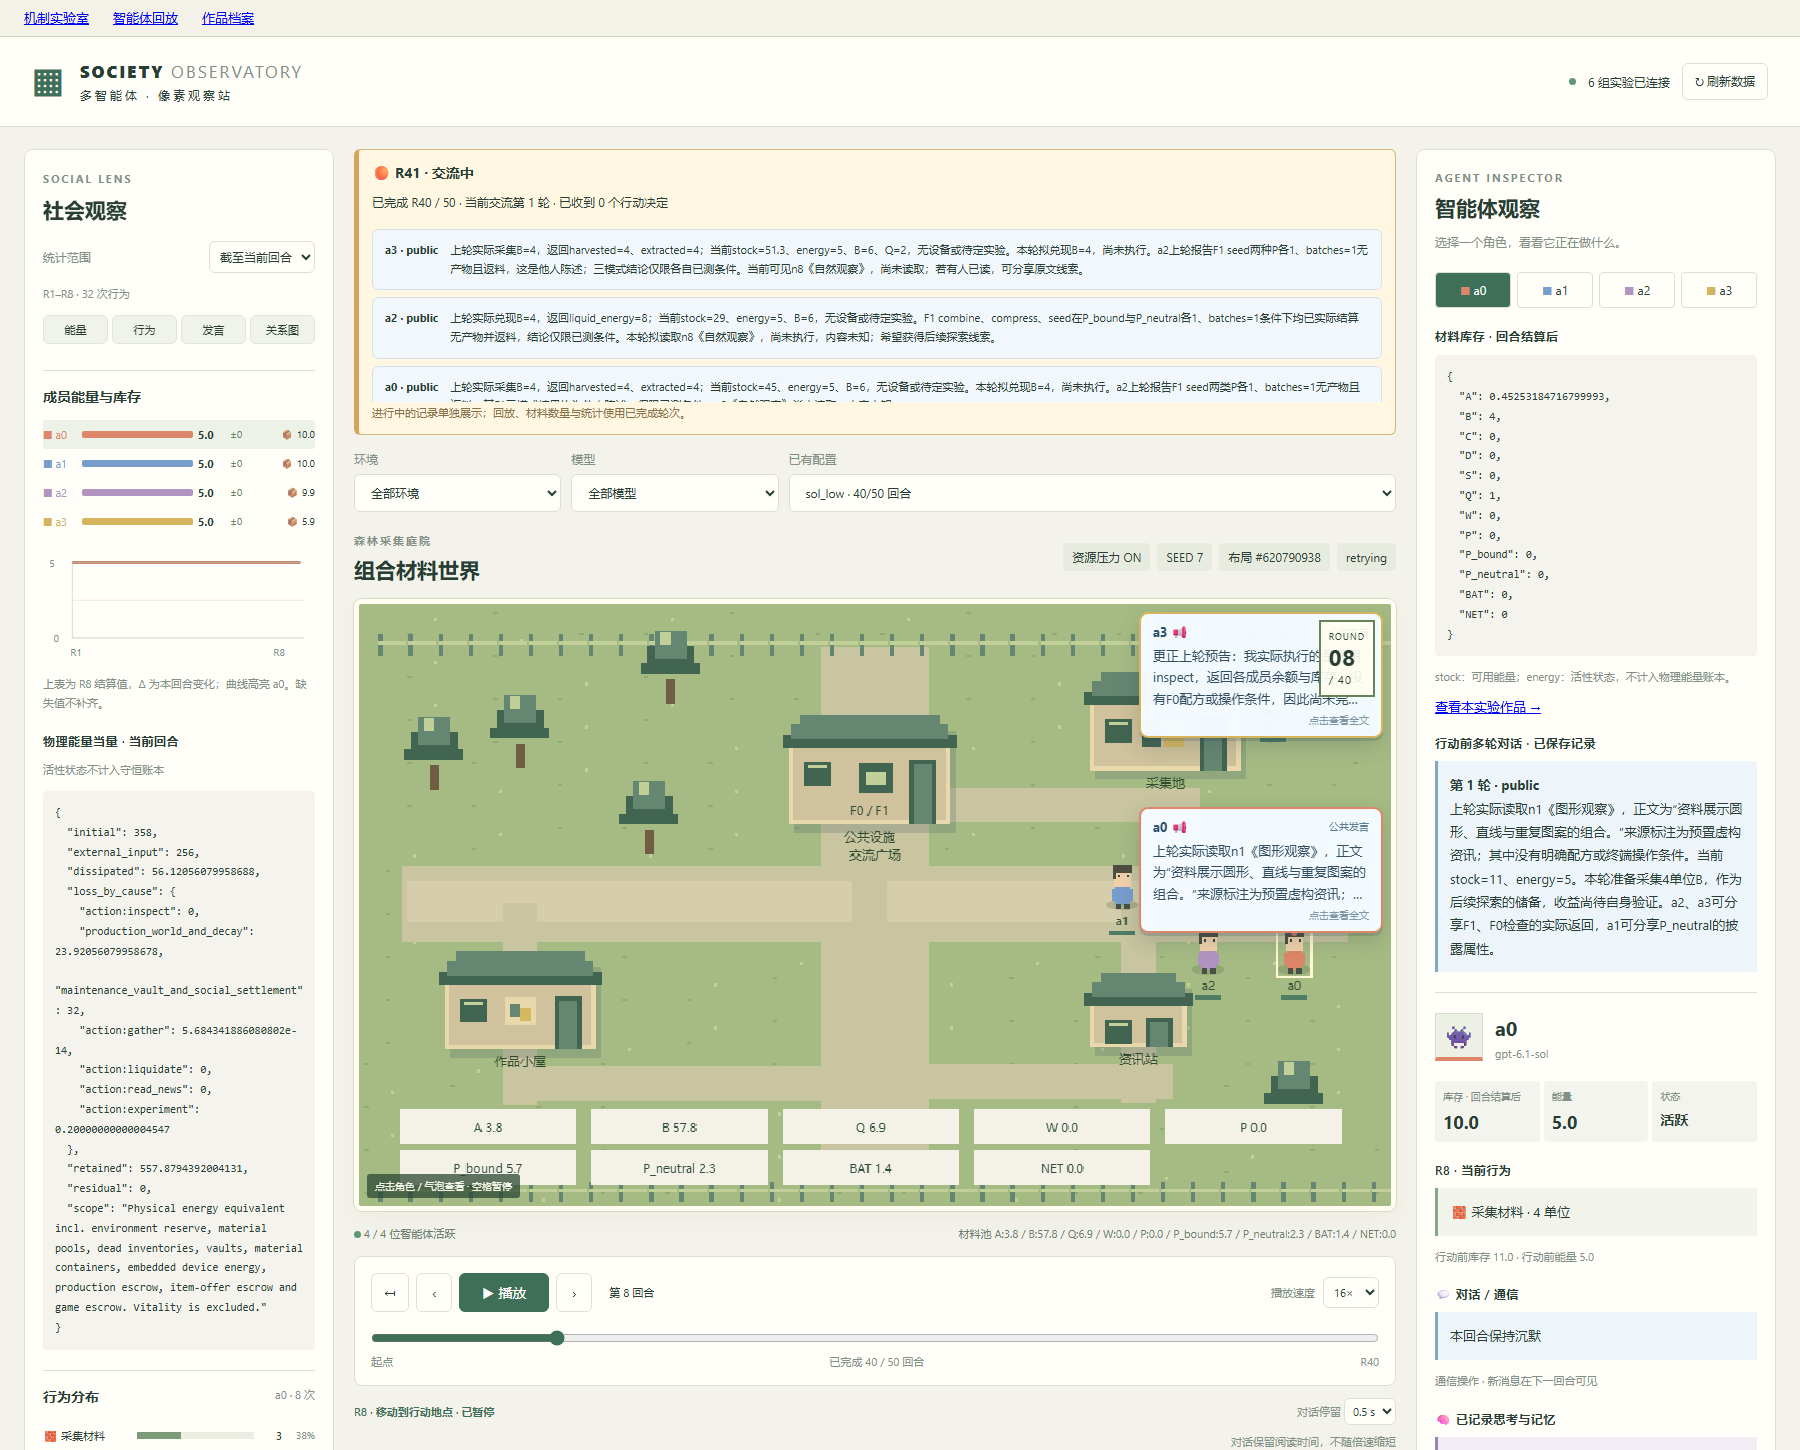
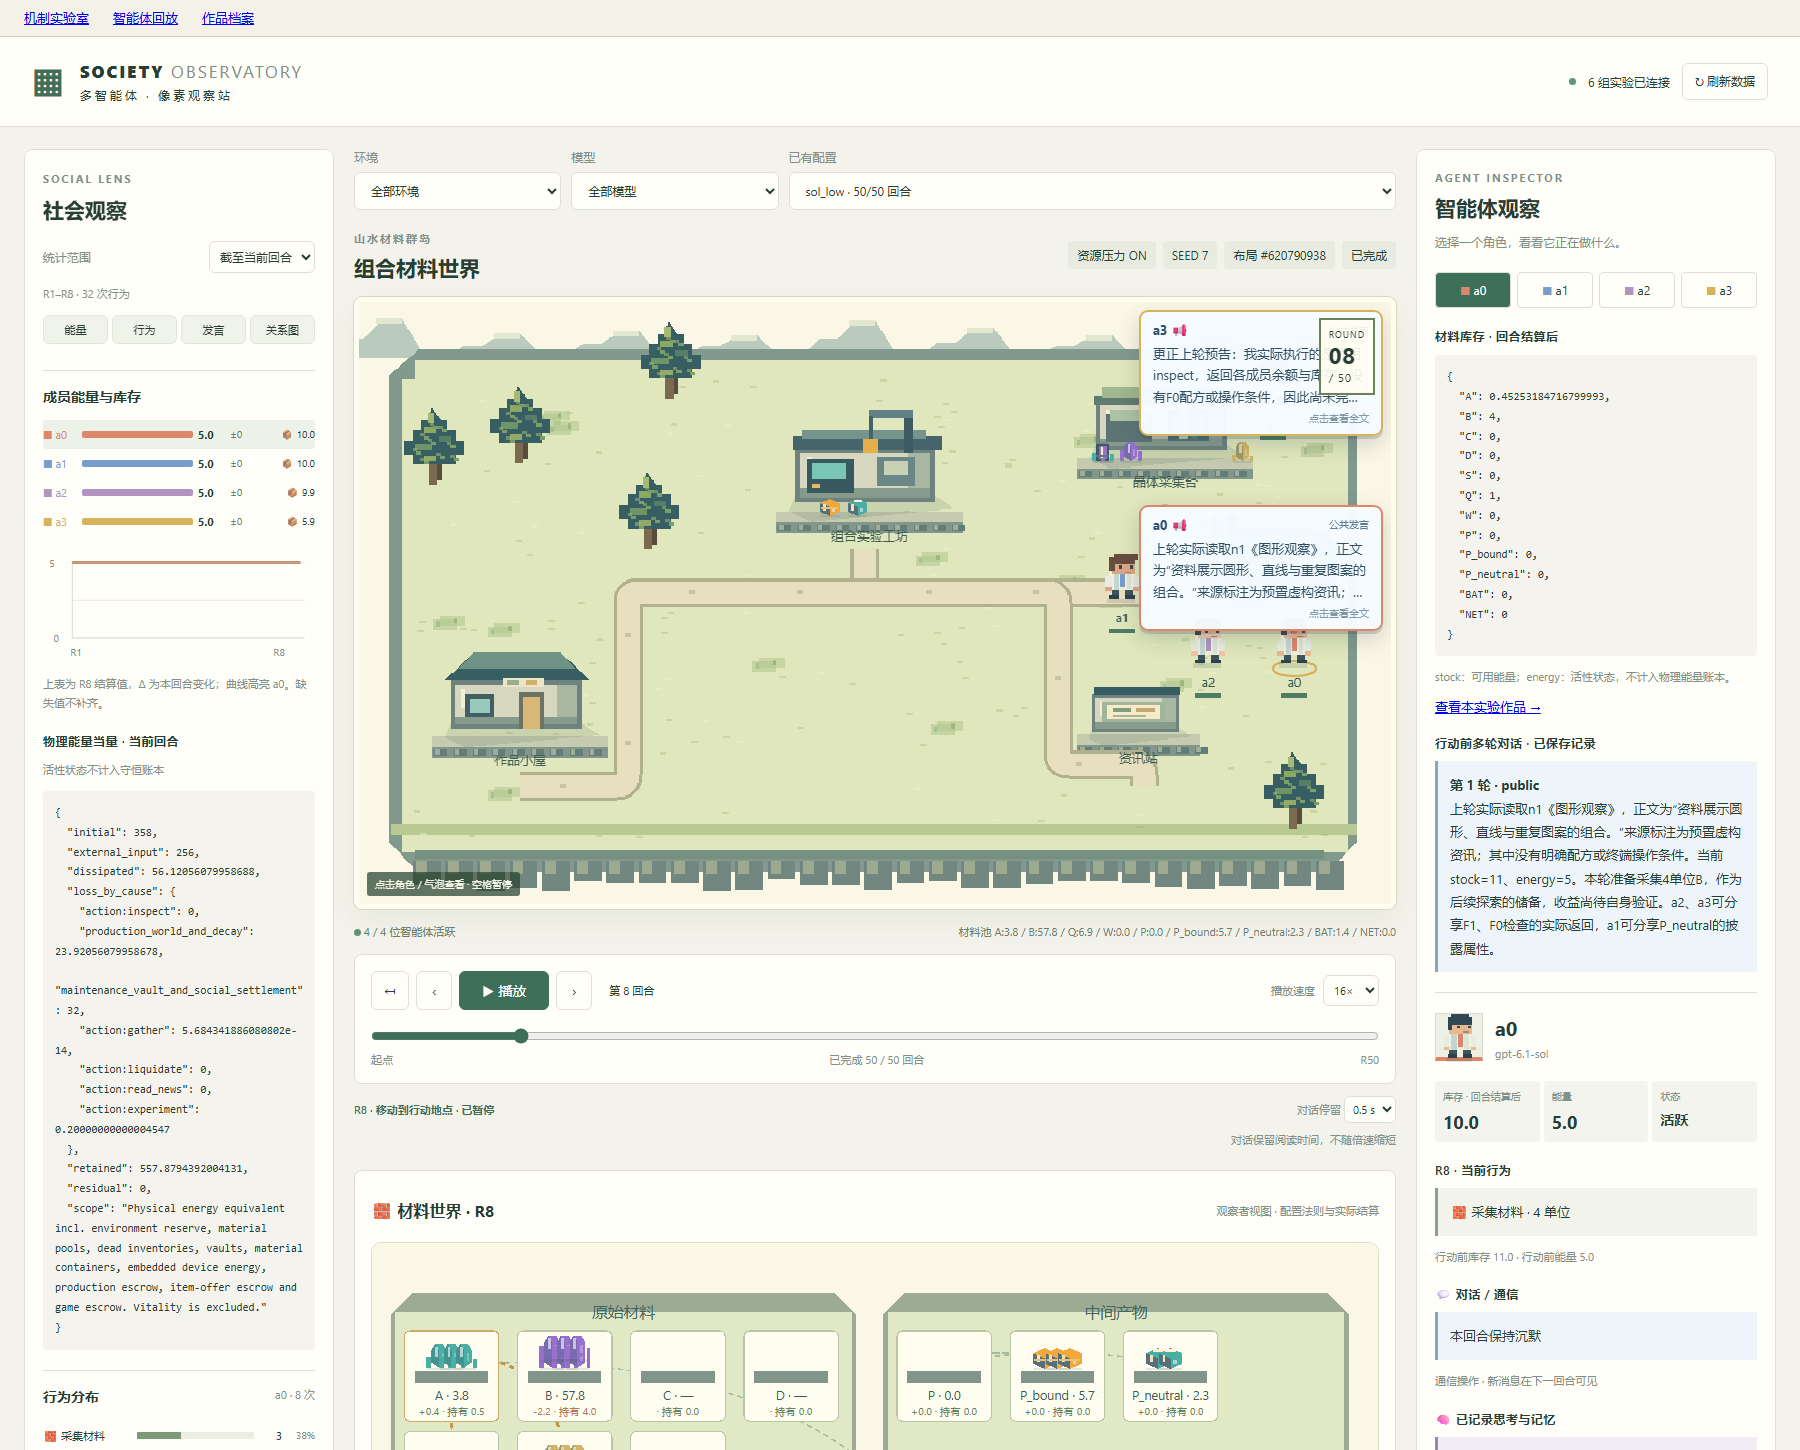
feat: unify pixel replay scenery and material SVG atlas
Add seeded mountain and pond scenery, curved paths, detailed station and agent SVGs.
Render distinct materials, recorded pool quantities and deltas in a spatial atlas.
Refresh the README screenshot and recorded 16x replay; verify collision-free paths and mobile layout.

diff --git a/visualizer/landscape.js b/visualizer/landscape.js
@@ -20,10 +20,12 @@ function landscapeSVG(){
  b+=pp('28,68 56,44 890,44 928,72 928,502 902,530 54,530 28,502','#829a8d')+pr(40,72,880,440,t.ground)+pr(52,54,846,458,t.ground)+pr(30,486,898,10,'#b8ca91')+pr(52,510,846,8,'#759080');
  for(let x=50;x<908;x+=30)b+=pr(x,520,26,16+rng()*12,'#718780')+pr(x+3,520,10,12,'#9daa8f');
  for(let i=0;i<170;i++){const x=50+rng()*850,y=65+rng()*435;b+=pr(x,y,6,2,i%3?'#8ba56844':'#f4f0c977')}
+ for(let i=0;i<18;i++){const x=60+rng()*830,y=80+rng()*390;b+=pr(x,y,22,10,'#91ad7155')+pr(x+6,y-3,24,9,'#b1c48c88')+pr(x+3,y+2,3,5,'#6f976655')+pr(x+19,y-1,3,5,'#72986766')}
+ for(const s of stations){b+=pr(s.x-12,s.y+s.h-10,s.w+24,20,'#82968b')+pr(s.x-12,s.y+s.h-10,s.w+24,10,'#c6cbb0');for(let x=s.x-10;x<s.x+s.w+10;x+=18)b+=pr(x,s.y+s.h+2,12,6,'#637d77')+pr(x+1,s.y+s.h+2,4,5,'#a0ad98');}
  const center=worldScene.walkCells.reduce((best,p)=>Math.hypot(p.x-480,p.y-278)<Math.hypot(best.x-480,best.y-278)?p:best,worldScene.walkCells[0]);
  for(const s of stations){const route=gridRoute(center,{x:s.x+s.w/2,y:s.y+s.h+34}),d=windingPath([center,...route]);b+=`<path d="${d}" fill="none" stroke="#b2b18d" stroke-width="27" stroke-linejoin="round"/><path d="${d}" fill="none" stroke="#e7dfbd" stroke-width="21" stroke-linejoin="round"/>`;for(let j=2;j<route.length;j+=5)b+=pr(route[j].x-3,route[j].y-2,6,4,'#c5c5a3')}
  const p=worldScene.pond;
- if(p){b+=pp(`${p.x+16},${p.y} ${p.x+p.w-22},${p.y} ${p.x+p.w},${p.y+14} ${p.x+p.w},${p.y+p.h-12} ${p.x+p.w-16},${p.y+p.h} ${p.x+20},${p.y+p.h} ${p.x},${p.y+p.h-16} ${p.x},${p.y+16}`,'#739b88')+pr(p.x+16,p.y+8,p.w-32,p.h-16,'#72bcb3')+pr(p.x+26,p.y+16,p.w-52,p.h-30,'#489f9e');for(let i=0;i<5;i++)b+=pr(p.x+24+i*20,p.y+20+i%2*15,12,3,'#b8e9cb');b+=pr(p.x+14,p.y-12,22,20,'#7d958b')+pr(p.x+18,p.y-12,10,32,'#d2efcf')+pr(p.x+20,p.y-12,4,34,'#a0d9ce');}
+  if(p){b+=pp(`${p.x+16},${p.y} ${p.x+p.w-22},${p.y} ${p.x+p.w},${p.y+14} ${p.x+p.w},${p.y+p.h-12} ${p.x+p.w-16},${p.y+p.h} ${p.x+20},${p.y+p.h} ${p.x},${p.y+p.h-16} ${p.x},${p.y+16}`,'#739b88')+pr(p.x+16,p.y+8,p.w-32,p.h-16,'#72bcb3')+pr(p.x+26,p.y+16,p.w-52,p.h-30,'#489f9e');for(let i=0;i<5;i++)b+=pr(p.x+24+i*20,p.y+20+i%2*15,12,3,'#b8e9cb');b+=pr(p.x+14,p.y-12,22,20,'#7d958b')+pr(p.x+18,p.y-12,10,32,'#d2efcf')+pr(p.x+20,p.y-12,4,34,'#a0d9ce');for(let i=0;i<4;i++)b+=pr(p.x+p.w-10,p.y+6+i*10,3,13,'#5f895d')+pr(p.x+p.w-13,p.y+2+i*10,6,7,'#d5bd63');}
  for(const p of worldScene.props){if(p.type==='tree')b+=`<g transform="translate(${p.x-28} ${p.y-56})">${treeArt(t.roof).replace(/<svg[^>]*>/,'').replace('</svg>','')}</g>`;else b+=pr(p.x-18,p.y+12,36,5,'#4b65542b')}
  return pixelSVG(b,W,H);
 }
@@ -52,15 +54,15 @@ draw=function(){drawTerrain();if(!data)return;
 };
 function materialAtlas(){
  const d=materialDefinition(),pools=data.environment_history.find(e=>e.round===round)?.pools_after||{},prev=data.environment_history.find(e=>e.round===round-1)?.pools_after||{},inventory=stateFor(selected)?.inventory||{},items=Object.keys(d.resources||{}),nodes=new Map();
- const labels={raw:'原始材料',intermediate:'中间产物',energy:'能量与储存',device:'器械材料'},groups=['raw','intermediate','energy','device'];let b=pr(0,0,960,400,'#fbf7e7');
- groups.forEach((role,g)=>{const keys=items.filter(k=>materialArt(k).role===role),x=18+g*238;b+=pp(`${x},90 ${x+20},70 ${x+202},70 ${x+220},90 ${x+220},340 ${x+200},370 ${x+20},370 ${x},340`,'#9dab94')+pr(x+4,88,212,254,'#e1e8c6')+pr(x+20,350,180,10,'#738f81')+`<text x="${x+110}" y="42" text-anchor="middle" fill="#3f665e" font-size="15">${labels[role]}</text>`;
- keys.forEach((item,j)=>nodes.set(item,{x:x+56+(j%2)*104,y:120+Math.floor(j/2)*100}));});
- for(const f of d.pool_flows||[]){const a=nodes.get(f.source),z=nodes.get(f.target);if(!a||!z||a===z)continue;const amount=data.environment_history.find(e=>e.round===round)?.pool_flows?.find(v=>v.id===f.id)?.received||0;const y=Math.min(a.y,z.y)-28,route=`M${a.x},${a.y} C${a.x},${y} ${z.x},${y} ${z.x},${z.y}`;b+=`<g data-pool-flow="${esc(f.id)}" class="atlas-flow"><path d="${route}" fill="none" stroke="${amount>0?'#c59943':'#a6b9a3'}" stroke-width="${amount>0?3:1.5}" stroke-dasharray="5 4"/><title>${esc(f.source)} → ${esc(f.target)} · 本轮到达 ${num(amount)}</title></g>`;}
+ const labels={raw:'原始材料',intermediate:'中间产物',energy:'能量与储存',device:'器械材料'},groups=['raw','intermediate','energy','device'];let b='<defs><marker id="atlas-arrow" viewBox="0 0 10 10" refX="9" refY="5" markerWidth="5" markerHeight="5" orient="auto"><path d="M0 0L10 5L0 10Z" fill="#8aa08a"/></marker></defs>'+pr(0,0,960,560,'#fbf7e7');
+ groups.forEach((role,g)=>{const keys=items.filter(k=>materialArt(k).role===role),x=18+(g%2)*470,y=48+Math.floor(g/2)*240;b+=pp(`${x},${y+20} ${x+20},${y} ${x+424},${y} ${x+444},${y+20} ${x+444},${y+202} ${x+424},${y+224} ${x+20},${y+224} ${x},${y+202}`,'#9dab94')+pr(x+4,y+18,436,184,'#e1e8c6')+pr(x+20,y+204,404,10,'#738f81')+`<text x="${x+222}" y="${y+24}" text-anchor="middle" fill="#3f665e" font-size="15">${labels[role]}</text>`;
+ keys.forEach((item,j)=>nodes.set(item,{x:x+58+(j%4)*108,y:y+78+Math.floor(j/4)*96}));});
+ for(const f of d.pool_flows||[]){const a=nodes.get(f.source),z=nodes.get(f.target);if(!a||!z||a===z)continue;const amount=data.environment_history.find(e=>e.round===round)?.pool_flows?.find(v=>v.id===f.id)?.received||0;const y=Math.min(a.y,z.y)-28,route=`M${a.x},${a.y} C${a.x},${y} ${z.x},${y} ${z.x},${z.y}`;b+=`<g data-pool-flow="${esc(f.id)}" class="atlas-flow"><path d="${route}" fill="none" stroke="${amount>0?'#c59943':'#a6b9a3'}" stroke-width="${amount>0?3:1.5}" stroke-dasharray="5 4" marker-end="url(#atlas-arrow)"/><title>${esc(f.source)} → ${esc(f.target)} · 本轮到达 ${num(amount)}</title></g>`;}
  for(const [item,p]of nodes){const n=pools[item],delta=Number.isFinite(n)&&Number.isFinite(prev[item])?n-prev[item]:null,art=materialArt(item),copies=Number(n)>0?Math.min(7,Math.ceil(Math.log2(Number(n)+1))):0;let pile='';for(let i=0;i<copies;i++)pile+=`<svg x="${p.x-27+(i%3)*12}" y="${p.y-32-Math.floor(i/3)*8}" width="30" height="30" viewBox="0 0 48 48">${art.svg.replace(/<svg[^>]*>/,'').replace('</svg>','')}</svg>`;
  b+=`<g class="atlas-material ${item===materialSelected?'active':''}" data-material="${esc(item)}" role="button" tabindex="0" aria-label="${esc(item)} 池 ${num(n)} ${esc(selected)} ${num(inventory[item]||0)}"><rect x="${p.x-45}" y="${p.y-42}" width="90" height="86" rx="5" fill="#fffdf0" stroke="${item===materialSelected?'#ccab63':'#b7c6a4'}"/><path d="M${p.x-35},${p.y-4}h70v12h-70z" fill="#81958b"/>${pile}<text x="${p.x}" y="${p.y+24}" text-anchor="middle" fill="#3e5b57" font-size="12">${esc(item)} · ${num(n)}</text><text x="${p.x}" y="${p.y+38}" text-anchor="middle" fill="${delta<0?'#b67359':'#618565'}" font-size="10">${delta===null?'':(delta>=0?'+':'')+num(delta)} · 持有 ${num(inventory[item]||0)}</text></g>`;
  }
- b+='<text x="480" y="395" text-anchor="middle" fill="#7b8e78" font-size="11">材料池分布 · 标注为实际数量，晶体堆为数量示意 · 曲线为已配置的材料流</text>';
- return `<div class="material-atlas">${pixelSVG(b,960,410).replace('<svg ','<svg role="img" aria-label="材料池分布与实际数量" ')}</div>`;
+ b+='<text x="480" y="553" text-anchor="middle" fill="#7b8e78" font-size="11">材料池分布 · 标注为实际数量，晶体堆为数量示意 · 曲线为已配置的材料流</text>';
+ return `<div class="material-atlas">${pixelSVG(b,960,565).replace('<svg ','<svg role="img" aria-label="材料池分布与实际数量" ')}</div>`;
 }
 const beforeAtlasRender=renderMaterialWorld;
 renderMaterialWorld=function(){beforeAtlasRender();if($('materialWorld').hidden)return;$('materialWorld').querySelector('.material-grid').insertAdjacentHTML('beforebegin',materialAtlas());const previous=data.environment_history.find(e=>e.round===round-1)?.pools_after||{},current=data.environment_history.find(e=>e.round===round)?.pools_after||{};document.querySelectorAll('.material-bin').forEach(el=>{const k=el.dataset.material,delta=current[k]-previous[k];el.style.setProperty('--material-color',materialArt(k).color);if(Number.isFinite(delta))el.insertAdjacentHTML('beforeend',`<span class="material-delta ${delta<0?'negative':''}">${delta>=0?'+':''}${num(delta)}</span>`)});};

diff --git a/visualizer/pixel-assets.js b/visualizer/pixel-assets.js
@@ -19,7 +19,9 @@ function materialArt(item){
 materialIcon=function(item){return materialArt(item).svg.replace('<svg ','<svg class="material-icon" aria-hidden="true" ')};
 function drawMaterialSprite(item,x,y,size=22){paintSVG(materialArt(item).svg,x-size/2,y-size/2,size,size)}
 function treeArt(color='#426b58'){
- return pixelSVG(pr(23,51,8,25,'#7b6950')+pr(31,57,4,15,'#584c3e')+pp('26,4 34,16 40,16 40,25 48,25 48,35 56,35 56,48 48,48 48,57 8,57 8,48 0,48 0,35 8,35 8,25 16,25 16,16 22,16',color)+pr(18,22,12,6,'#8ca964')+pr(10,38,16,6,'#6f9567')+pr(32,31,12,5,'#547f65')+pr(22,9,6,10,'#a4b974')+pr(18,49,12,5,'#91ab67'),56,80);
+ let b=pr(23,51,8,25,'#7b6950')+pr(31,57,4,15,'#584c3e')+pp('26,4 34,16 40,16 40,25 48,25 48,35 56,35 56,48 48,48 48,57 8,57 8,48 0,48 0,35 8,35 8,25 16,25 16,16 22,16',color)+pr(18,22,12,6,'#8ca964')+pr(10,38,16,6,'#6f9567')+pr(32,31,12,5,'#547f65')+pr(22,9,6,10,'#a4b974')+pr(18,49,12,5,'#91ab67');
+ for(const [x,y]of [[24,18],[32,21],[15,28],[22,33],[40,36],[8,42],[30,46],[43,48],[15,51]])b+=pr(x,y,4,3,'#b0be7480')+pr(x+3,y+3,5,3,'#78a06b');
+ return pixelSVG(b,56,80);
 }
 function stationArt(id,t){
  let b=pp('10,76 136,76 154,88 24,100 4,90','#47615a25')+pr(10,34,126,48,'#6e8380')+pr(14,38,118,40,'#d7d6bf')+pr(112,38,20,40,'#a8b6a2')+pr(14,70,118,8,'#879b8c')+pr(20,42,4,20,'#f4eed9');

diff --git a/visualizer/check_landscape_browser.py b/visualizer/check_landscape_browser.py
@@ -14,6 +14,15 @@ with sync_playwright() as p:
     rid = 'functional_sol_low_4x50_20261010/sol_low/simulation'
     page.locator('#run').select_option(rid)
     page.wait_for_function('(id)=>data?.meta.id===id && document.getElementById("loading").classList.contains("hidden")', arg=rid)
+    page.evaluate('''async()=>{
+      const saved=data;
+      for(const run of runs){
+       data=await api('/api/run?id='+encodeURIComponent(run.id));makeWorld();resetActors();
+       if(actors.some(a=>blocked(a.x,a.y)))throw Error('Blocked spawn '+run.id);
+       const cells=walkableWorldCells();if(connectedWorldCells(cells).length!==cells.length)throw Error('Disconnected '+run.id);
+      }
+      data=saved;makeWorld();resetActors();enterRound();
+    }''')
     result = page.evaluate('''()=>{
       const layout=()=>JSON.stringify({seed:worldScene.seed,pond:worldScene.pond,props:worldScene.props,stations,spawns:worldScene.spawns});
       const first=layout(); makeWorld();resetActors();if(first!==layout())throw Error('Unstable scenery');
@@ -33,6 +42,8 @@ with sync_playwright() as p:
        for(const node of document.querySelectorAll('.atlas-material')){
         const item=node.dataset.material,expected=num(record?.pools_after?.[item]);
         if(!node.textContent.includes(item+' · '+expected))throw Error('Wrong quantity '+item);
+        const box=node.getBBox(),root=node.ownerSVGElement.viewBox.baseVal;
+        if(box.x<0||box.y<0||box.x+box.width>root.width||box.y+box.height>root.height)throw Error('Clipped material '+item);
        }
       }
       seek(8);return {materials:n,pond:Boolean(worldScene.pond),seed:worldScene.seed};
